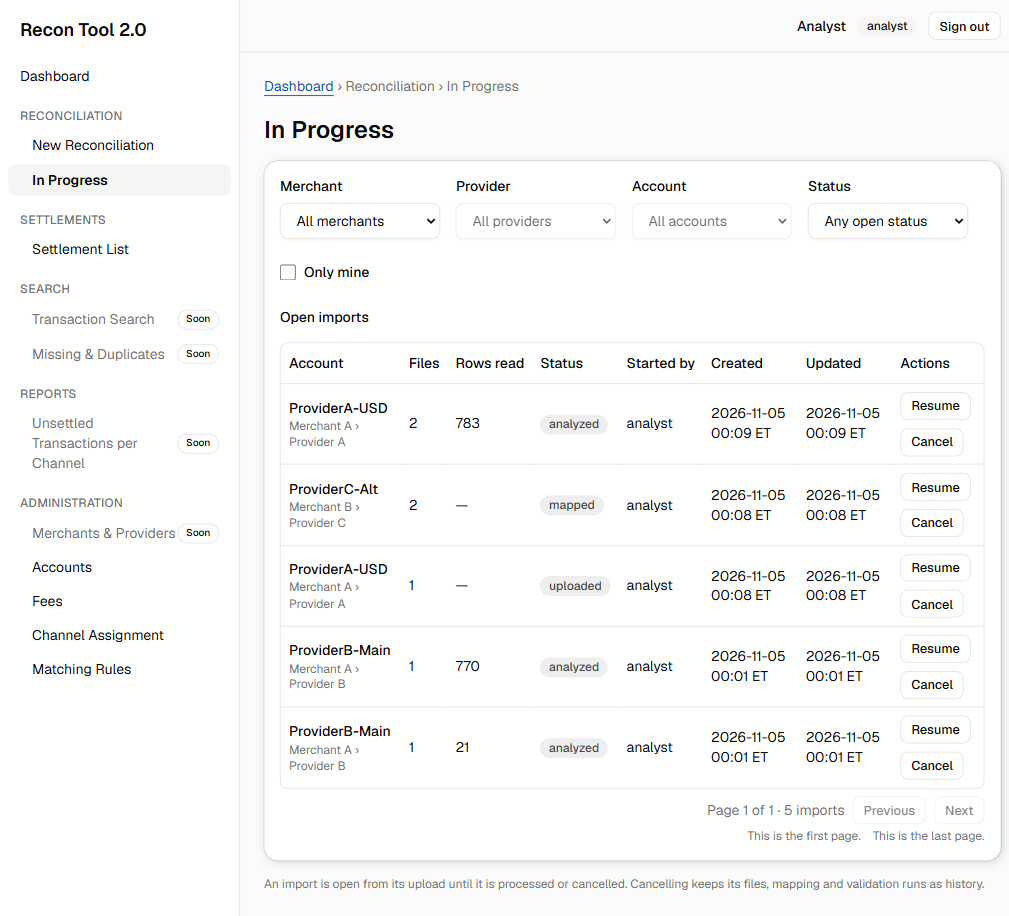
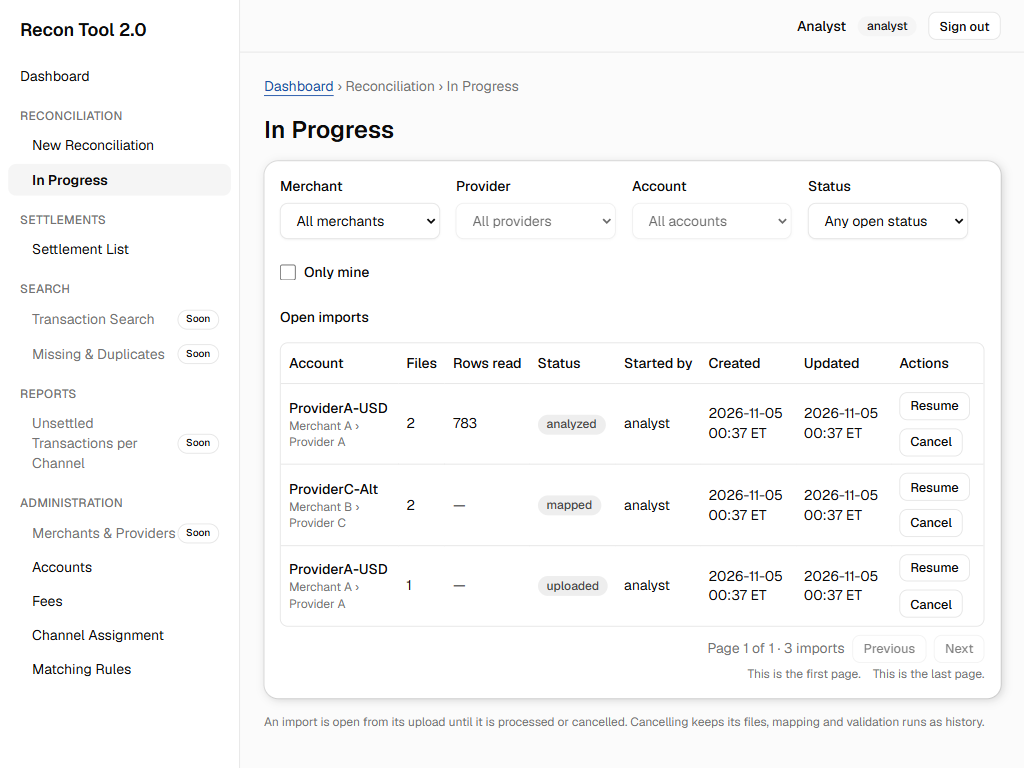
docs(web): capturas de In Progress sobre la base recién sembrada
Sin los imports sobrantes de la primera pasada de Bruno. Smoke E2E en verde
con el motivo del cancel (8.3).

diff --git a/openspec/changes/import-in-progress/tasks.md b/openspec/changes/import-in-progress/tasks.md
@@ -102,7 +102,7 @@ Rama `feat/import-in-progress` hacia `feature/entrega-3-MVP`. Sin migración ni 
 
   Verificar que fallan.
 - [x] 8.2 Implementar D6 en `CancelImportDialog` (prop `detail` estrechada, `onCancelled`, campo `Reason`) y en `useCancelImport` (motivo e invalidación de `['import-list']`), sin tocar `DecisionBar.tsx`. Verificar con `pnpm typecheck` y los tests de `features/imports`
-- [ ] 8.3 Smoke E2E: en `e2e/steps/import-smoke.steps.ts`, el paso de cancelar y la limpieza escriben un motivo antes de confirmar. Verificar con el comando del smoke contra la app local
+- [x] 8.3 Smoke E2E: en `e2e/steps/import-smoke.steps.ts`, el paso de cancelar y la limpieza escriben un motivo antes de confirmar. Verificar con el comando del smoke contra la app local
 - [ ] 8.4 Commit: `test(web): motivo obligatorio en Cancel import` y `feat(web): Cancel import pide motivo (#47)`
 
 ## 9. Llamadas al cancel en tests de otras áreas (D8, con aviso a la sesión de #62)
